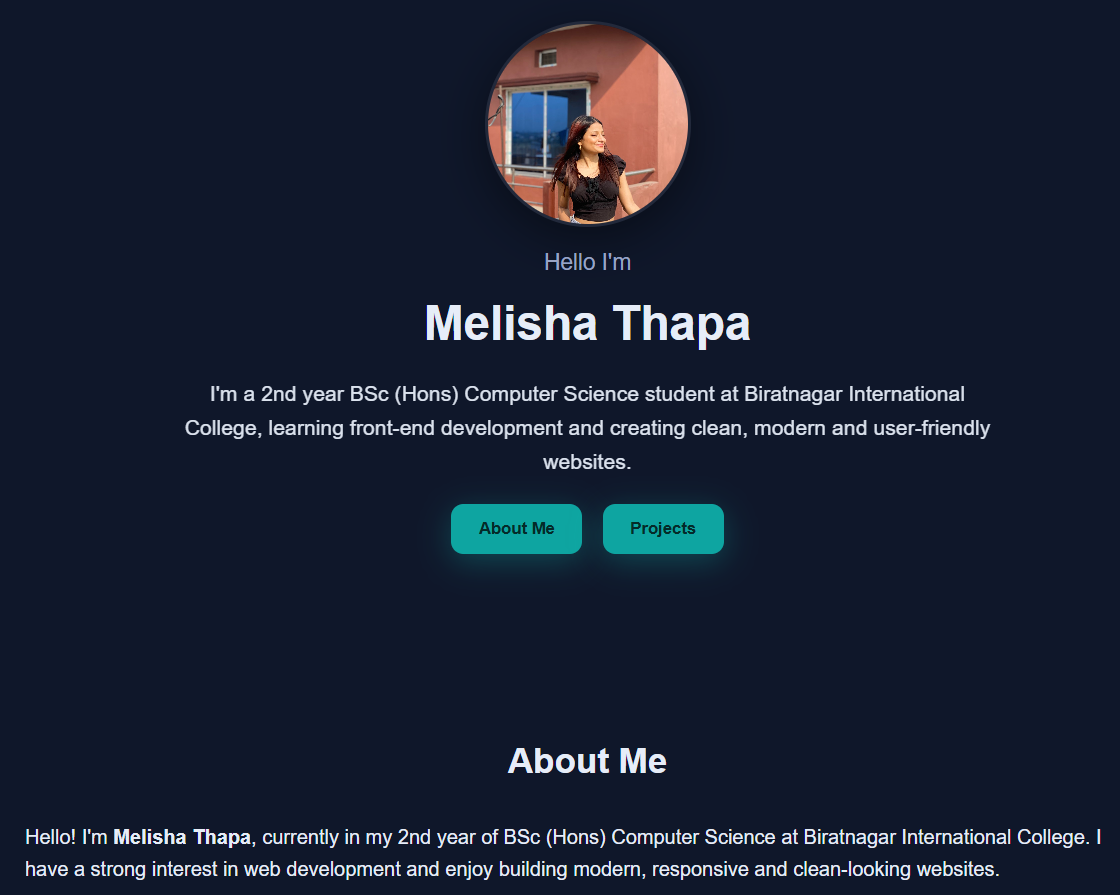
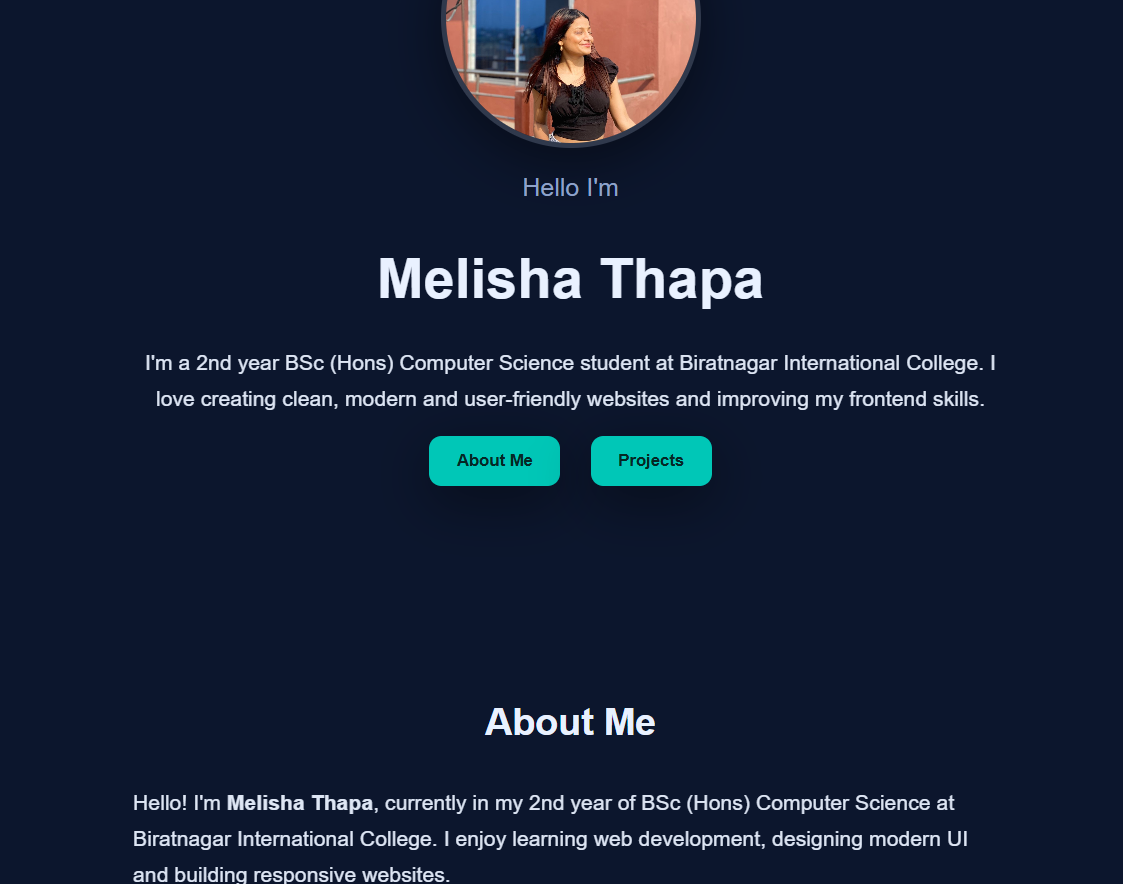
Added data in localstorage

Changed region(s): [[0.125, 0.0, 0.875, 0.6414], [0.0312, 0.7941, 0.9688, 1.0]]

diff --git a/script.js b/script.js
@@ -8,29 +8,44 @@ function animateSkills() {
 }
 window.addEventListener("load", animateSkills);
 
-/* CONTACT FORM */
-const form = document.getElementById("contactForm");
+// CONTACT FORM LOCAL STORAGE SAVE
+document.getElementById("contactForm").addEventListener("submit", function (e) {
+    e.preventDefault();
 
-if (form) {
-    form.addEventListener("submit", (e) => {
-        e.preventDefault();
+    let name = document.getElementById("name").value.trim();
+    let email = document.getElementById("email").value.trim();
+    let message = document.getElementById("message").value.trim();
 
-        let name = document.getElementById("name").value.trim();
-        let email = document.getElementById("email").value.trim();
-        let message = document.getElementById("message").value.trim();
+    if (name === "" || email === "" || message === "") {
+        document.getElementById("msg").textContent = "Please fill all fields!";
+        return;
+    }
 
-        document.getElementById("msg").innerText =
-            (!name || !email || !message)
-            ? "All fields are required!"
-            : "Message sent successfully!";
-    });
-}
+    // Create object
+    let formData = {
+        name: name,
+        email: email,
+        message: message,
+        time: new Date().toLocaleString()
+    };
+
+    // Save to local storage
+    localStorage.setItem("contactFormData", JSON.stringify(formData));
+
+    // Success message
+    document.getElementById("msg").textContent = "Message sent successfully!";
+
+    // Clear inputs
+    document.getElementById("name").value = "";
+    document.getElementById("email").value = "";
+    document.getElementById("message").value = "";
+});
+
 
 // Project 1 → Weather App Page
 document.getElementById("p1").addEventListener("click", function () {
-    window.location.href = "https://melisha501.github.io/weatherapp/"; 
-});
-
+    window.location.href = " https://melisha501.github.io/weatherapp/"; 
+}); 
 // Project 2 → Portfolio URL
 document.getElementById("p2").addEventListener("click", function () {
     window.open("https://melisha501.github.io/Assignment/", "_blank");

diff --git a/index.html b/index.html
@@ -106,7 +106,7 @@
         <!-- PROJECT 1 – Weather App -->
         <div class="project-card" id="p1">
             <h3>Project 1 - my Weather App</h3>
-            <img src="weather.jpg" class="project-img" alt="Weather App">
+            <img src="weather.jpg" class="project-img" alt=" my Weather App">
         </div>
 
         <!-- PROJECT 2 – My Portfolio -->
@@ -161,3 +161,4 @@
     <script src="script.js"></script>
 </body>
 </html>
+
